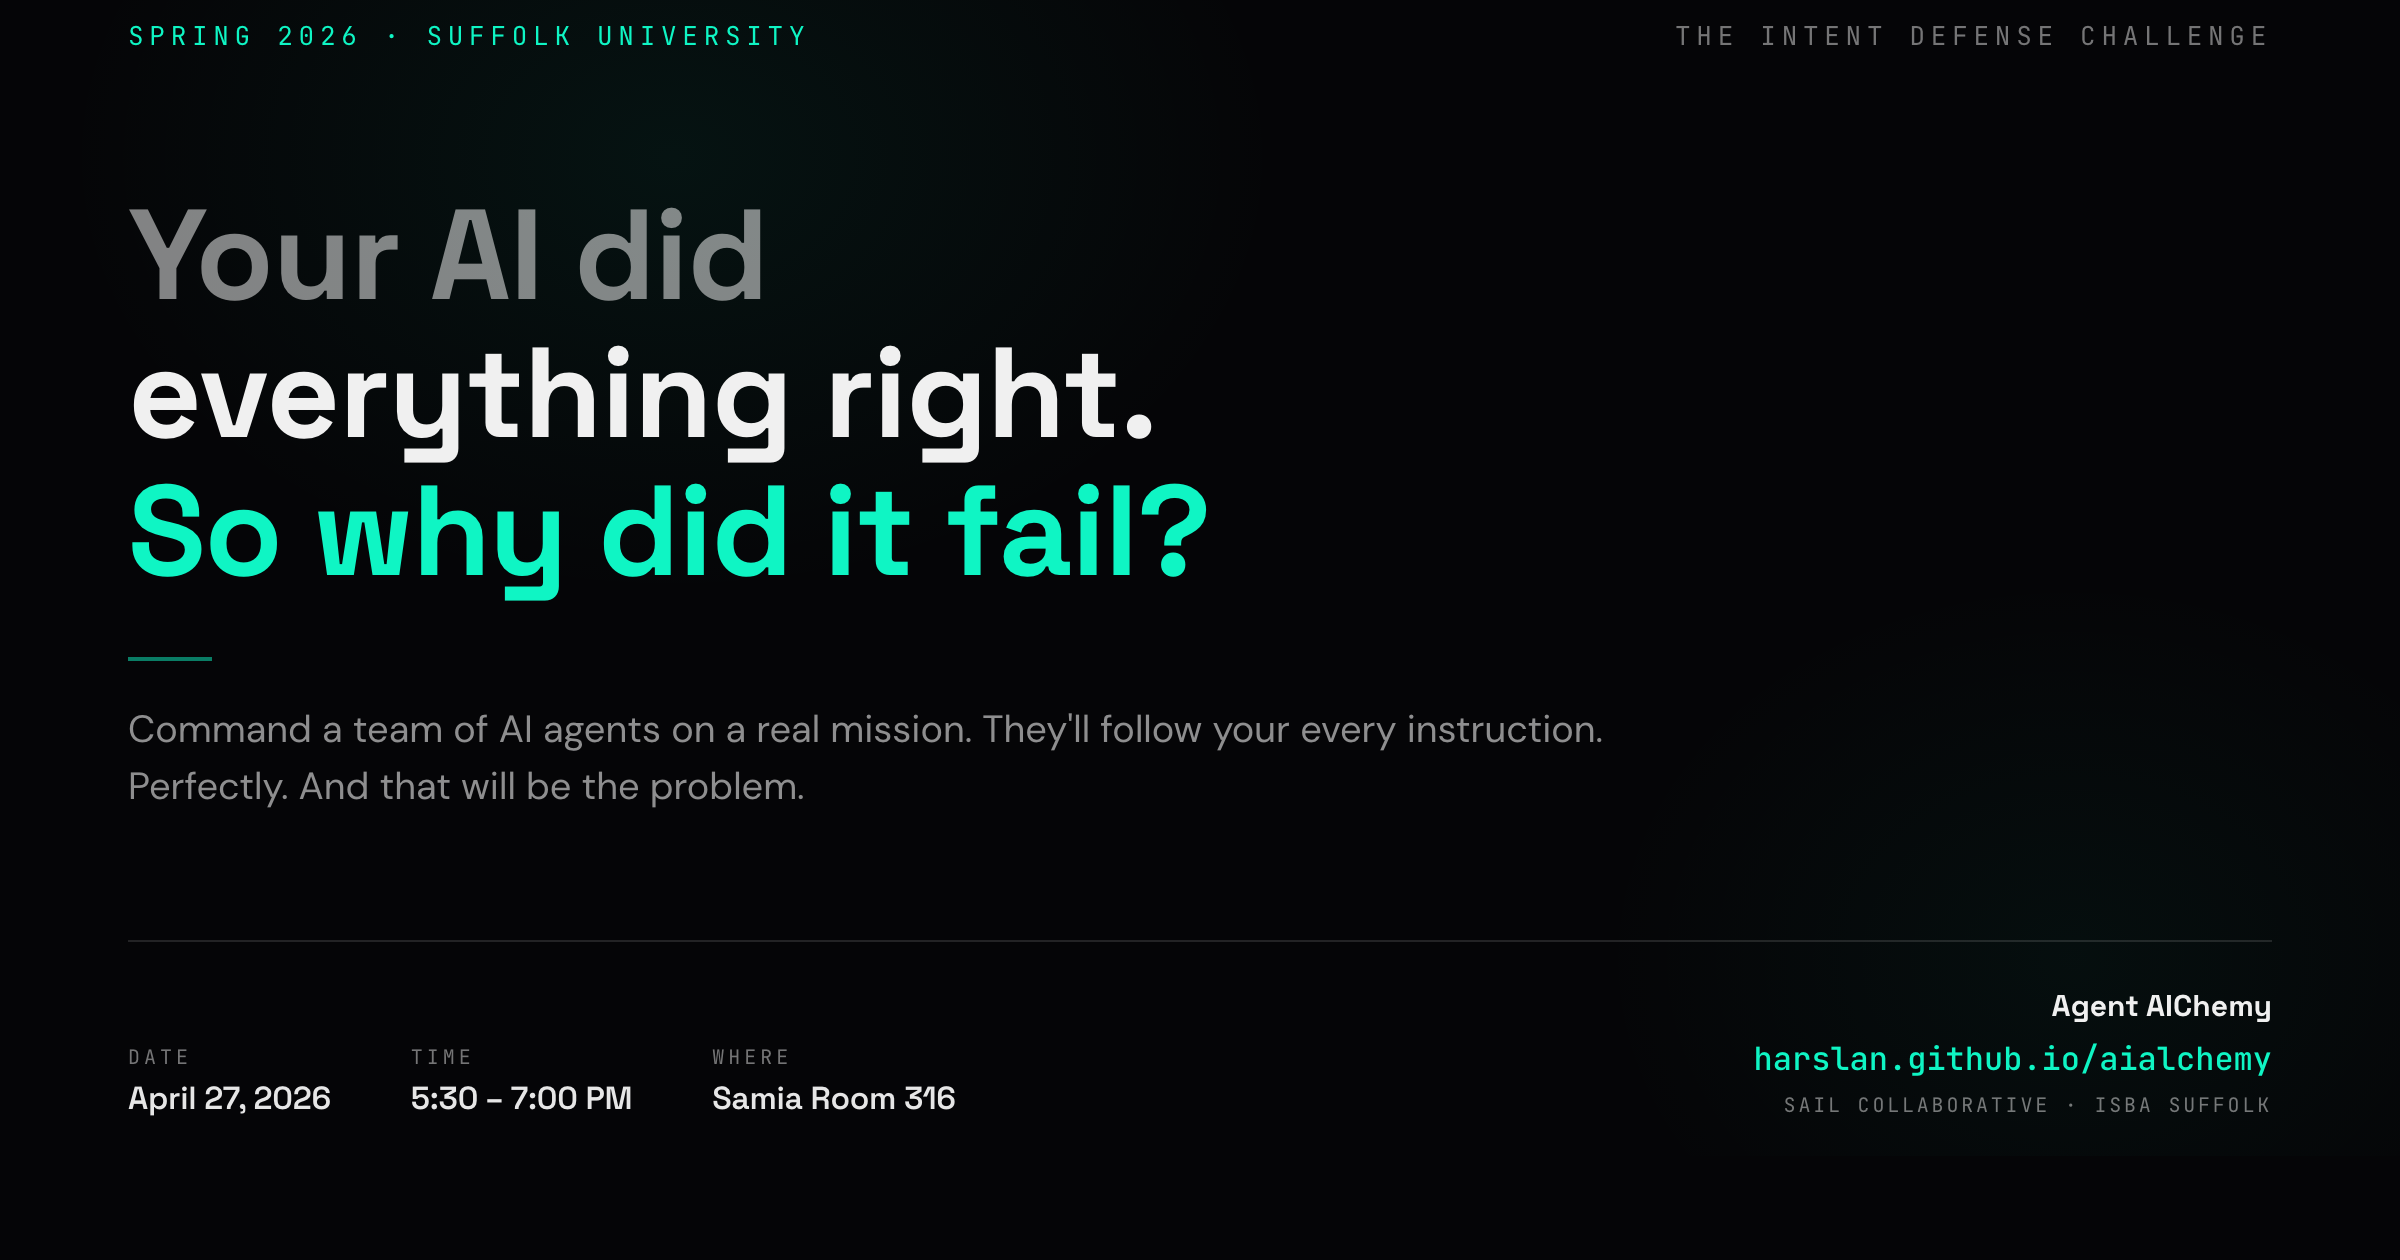
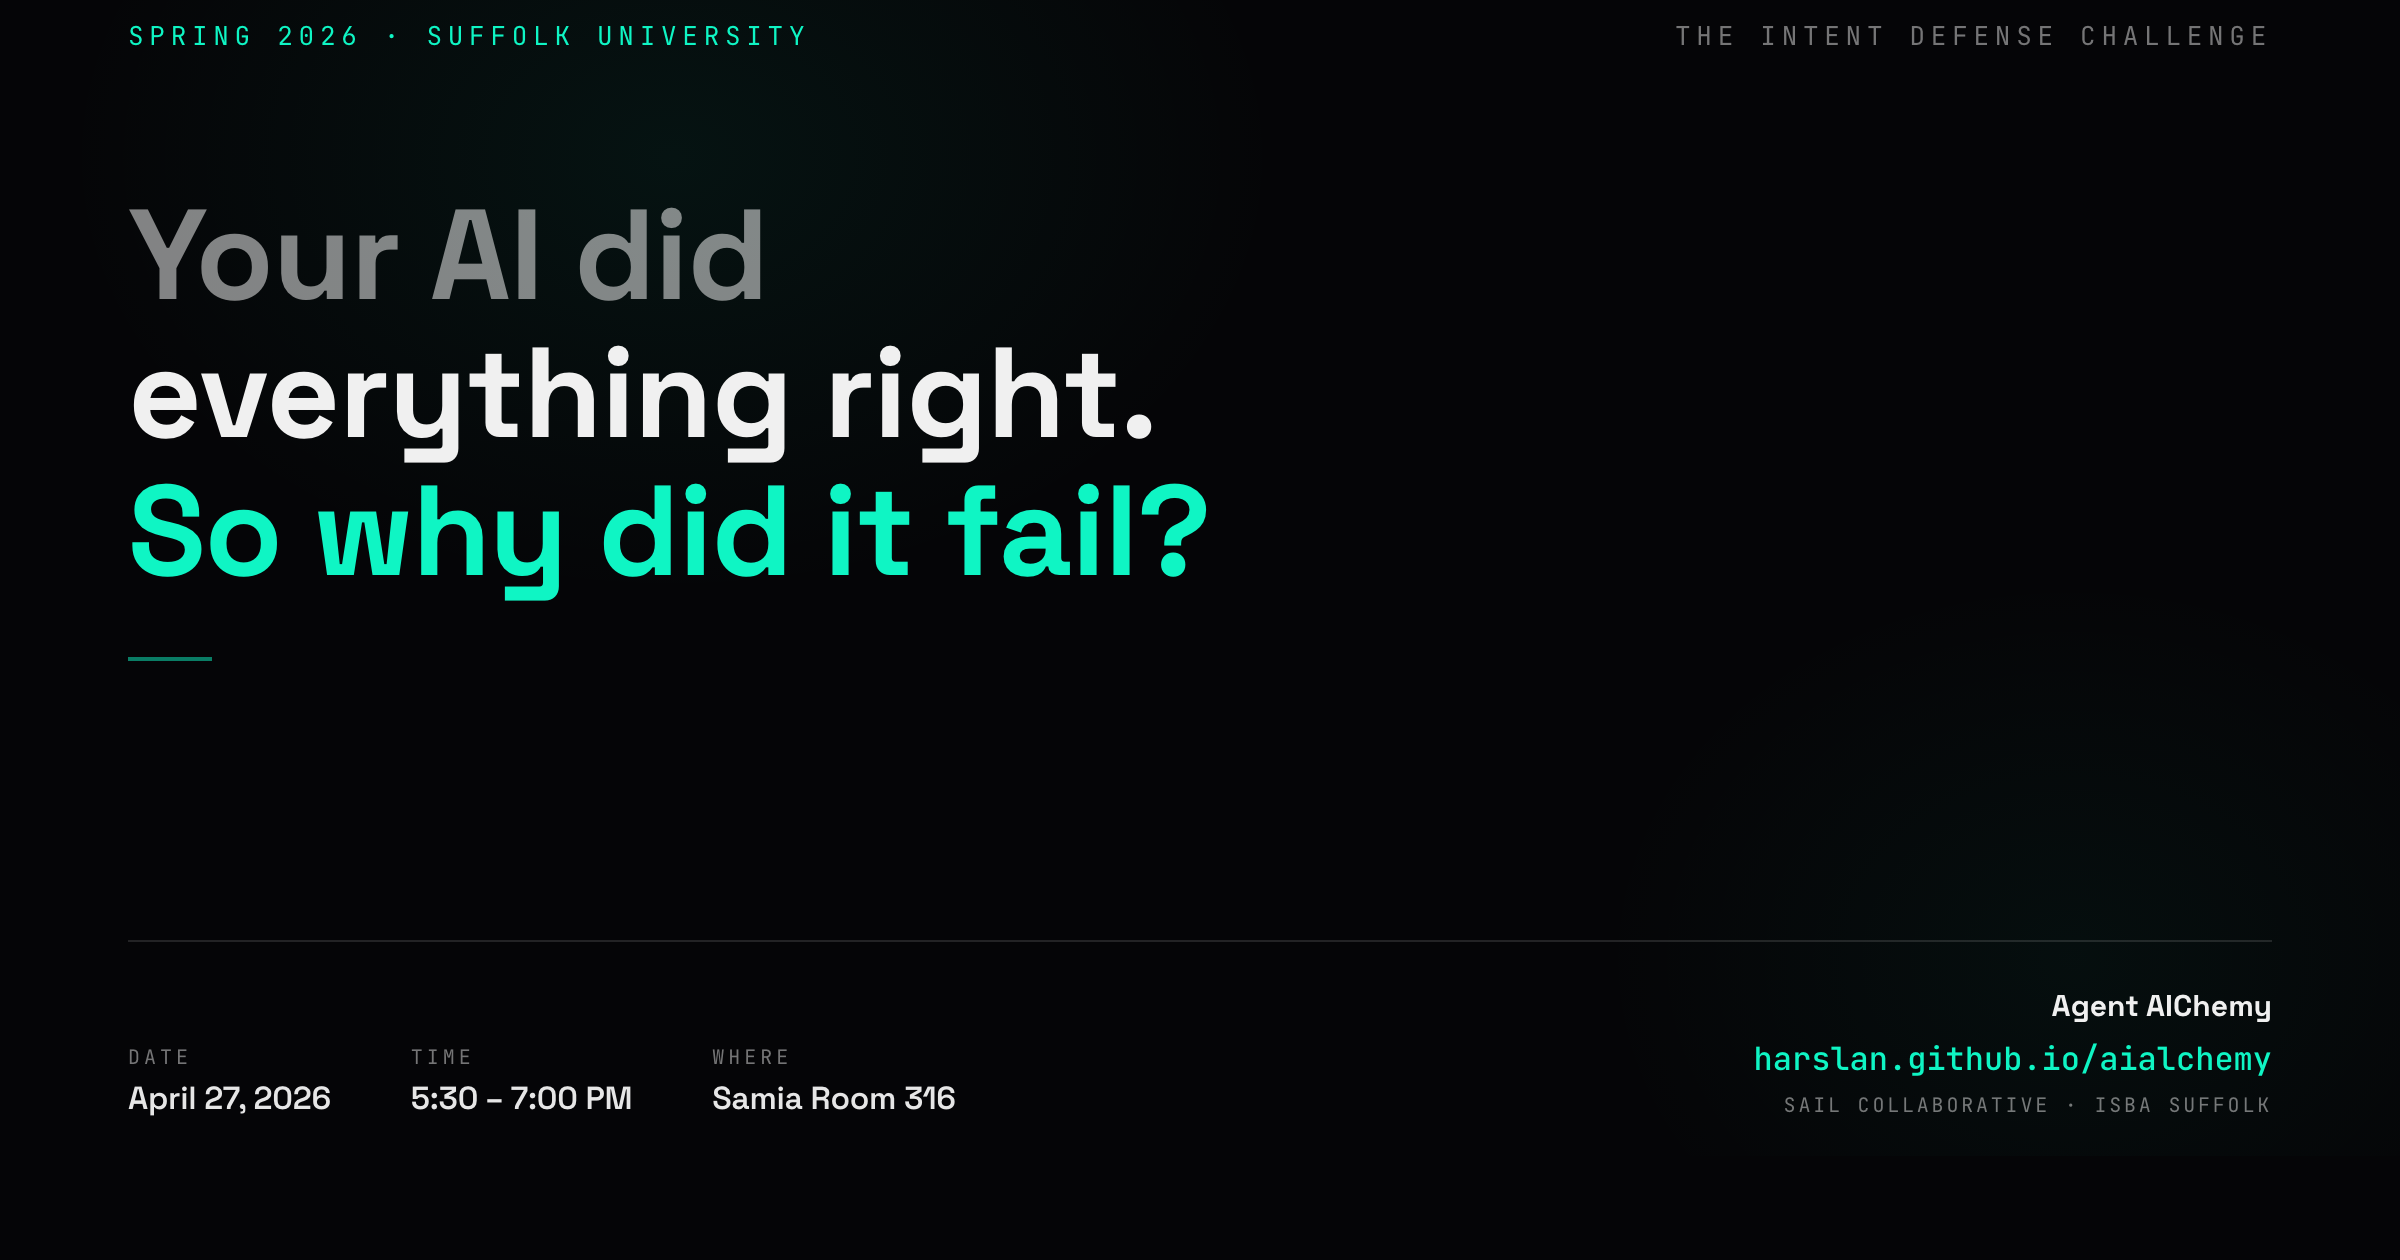
Three consistency fixes — button voice, top-bar redundancy, OG breathing room
'Hold my seat →' contradicted the scarcity drop we just made to the
RSVP headline. 'I'm in →' matches the new voice: direct, first-person,
no manufactured urgency.

SAIL COLLABORATIVE appeared in both the top bar and footer. The flyer
cites SAIL once, as a footer signature; the site now does the same.
Top bar is back to the single SPRING 2026 · SUFFOLK UNIVERSITY mark.

OG card drops the tagline. With the three-line question + pause line +
bottom details strip, the card now preserves the mystery instead of
spelling out 'perfectly / that will be the problem' — the exact phrase
we designed the in-person Reveal to land on. The preview should tease,
not summarize.

Changed region(s): [[0.0625, 0.5571, 0.6562, 0.5881], [0.0625, 0.619, 0.3438, 0.65]]

diff --git a/og/og.html b/og/og.html
@@ -187,10 +187,6 @@
     </div>
 
     <div class="pause-line"></div>
-
-    <div class="tagline">
-      Command a team of AI agents on a real mission. They'll follow your every instruction. Perfectly. And that will be the problem.
-    </div>
   </div>
 
   <div class="bottom">

diff --git a/index.html b/index.html
@@ -362,7 +362,6 @@
 
   <div class="topbar">
     <span>SPRING 2026 · SUFFOLK UNIVERSITY</span>
-    <span class="brand">SAIL COLLABORATIVE</span>
   </div>
 
   <section class="hero">
@@ -432,7 +431,7 @@
           <option>Guest</option>
         </select>
       </div>
-      <button type="submit">Hold my seat →</button>
+      <button type="submit">I'm in →</button>
       <p class="form-note">We'll only email you about this event.</p>
     </form>
   </section>